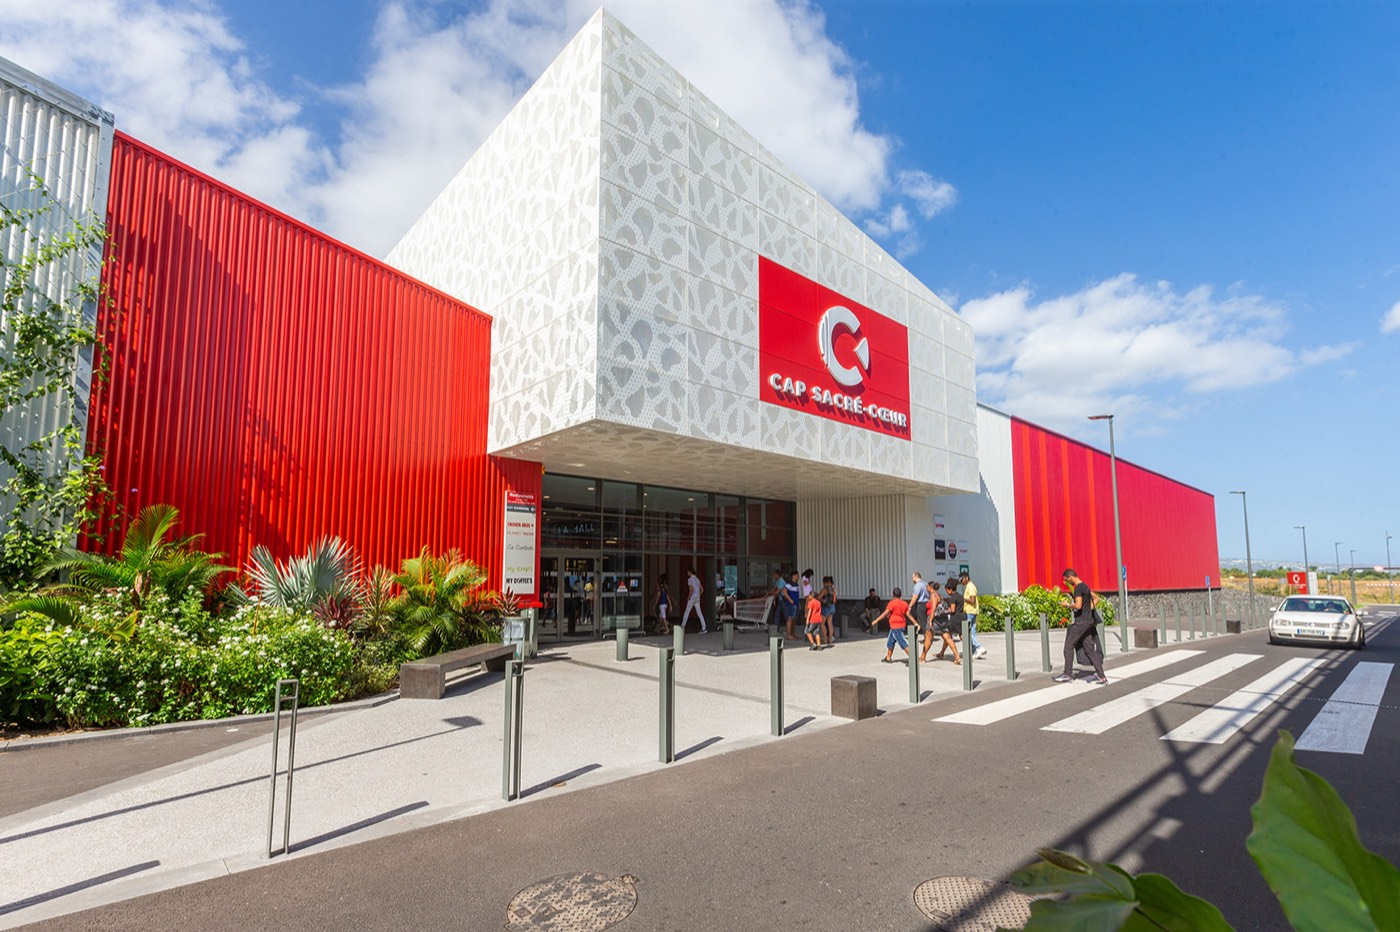
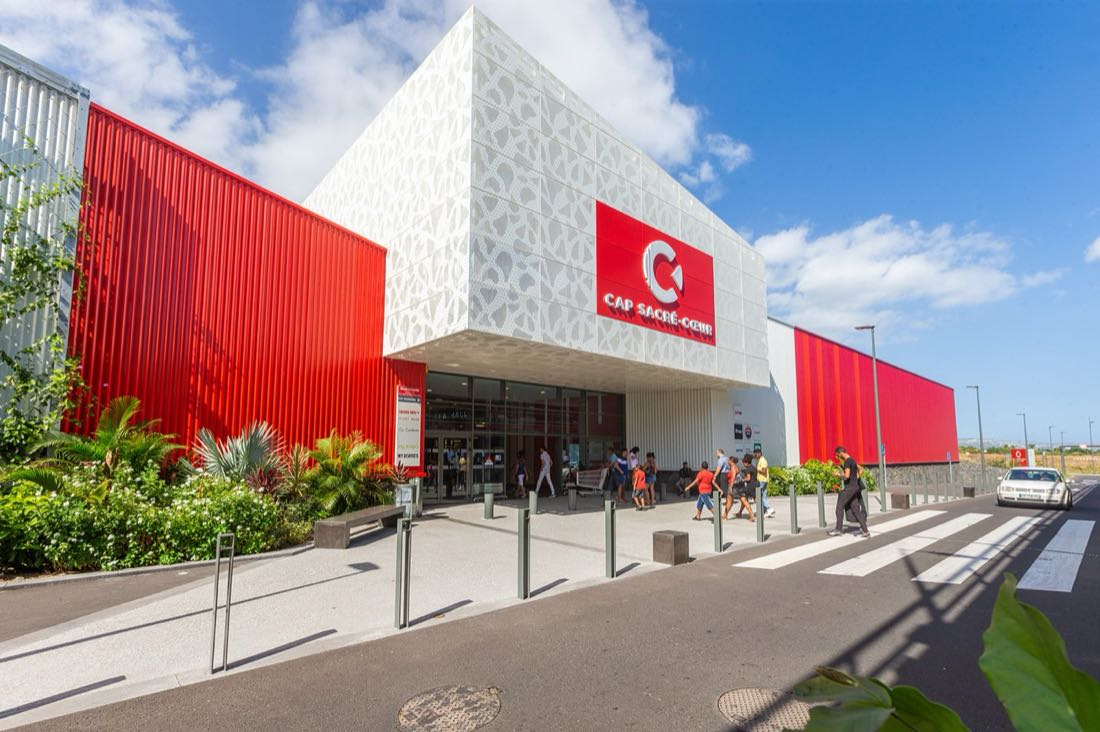
Tour complet du 28 aout : textes du parcours V2, images allegees, quiz verrouille, retour aux bons, validation durcie

diff --git a/app.js b/app.js
@@ -221,6 +221,14 @@ function appliquerOperation() {
     logo.alt = OPERATION.lieu || '';
     logo.hidden = false;
     lieuEntete.hidden = true;
+    // Si l'image du logo ne charge pas (fichier déplacé, 4G qui coupe),
+    // l'en-tête de tous les écrans afficherait une icône cassée : on
+    // retombe sur le nom de la galerie en toutes lettres.
+    logo.onerror = () => {
+      logo.hidden = true;
+      lieuEntete.textContent = (OPERATION.lieu || OPERATION.nom || '').trim();
+      lieuEntete.hidden = !lieuEntete.textContent;
+    };
   } else {
     logo.hidden = true;
     lieuEntete.textContent = (OPERATION.lieu || OPERATION.nom || '').trim();
@@ -239,6 +247,31 @@ function appliquerOperation() {
     const n = QUESTIONS.length;
     compte.textContent = enLettres(n).charAt(0).toUpperCase() + enLettres(n).slice(1) +
       ' questions rapides';
+  }
+
+  // LE BON EN POCHE, RAPPELÉ DÈS L'ACCUEIL (28/08/2026)
+  // Le joueur qui rouvre le jeu devant la caisse (ou qui a rechargé sa
+  // page) a son bon dans le téléphone, mais l'accueil ne lui en disait
+  // rien : il fallait rejouer, tomber sur « Pas si vite ! », et rester
+  // coincé. Une ligne discrète le mène droit à son code.
+  const zoneRappel = document.getElementById('accueil-rappel-bons');
+  if (zoneRappel && window.PullUpBons) {
+    // L'habillage passe deux fois (secours local, puis la base qui
+    // répond) : on repart de zéro pour ne pas empiler deux rappels.
+    zoneRappel.innerHTML = '';
+    const enPoche = window.PullUpBons.combienValables();
+    if (enPoche > 0) {
+      const rappel = document.createElement('button');
+      rappel.type = 'button';
+      rappel.className = 'rappel-bons';
+      rappel.innerHTML =
+        '<span class="rappel-bons-mot">' +
+          (enPoche > 1 ? 'Tu as <strong>' + enPoche + ' bons</strong> à utiliser'
+                       : 'Tu as <strong>un bon</strong> à utiliser') +
+        '</span><span class="rappel-bons-lien">Le voir</span>';
+      rappel.addEventListener('click', function () { afficherMesBons(); });
+      zoneRappel.appendChild(rappel);
+    }
   }
   const lieu = document.getElementById('accueil-lieu');
   lieu.textContent = OPERATION.lieu || '';
@@ -526,8 +559,13 @@ function deduireFoyer() {
 // --------------------------------------------
 const reponses = {};
 let questionActuelle = 0;
+// Vrai entre la tape sur une réponse et l'affichage de la question
+// suivante : empêche une double tape d'avancer de deux questions.
+let avanceQuizEnCours = false;
 let lotGagne = null;
 let codeLot = null;
+// L'horloge « seconde qui défile » des écrans de validation d'un bon.
+let horlogeValidation = null;
 
 // --------------------------------------------
 // NAVIGATION ENTRE ÉCRANS
@@ -542,6 +580,11 @@ function afficherEcran(id, sens) {
   const ecran = document.getElementById(id);
   if (sens === 'arriere') ecran.classList.add('recule');
   ecran.classList.add('actif');
+  // L'horloge de validation (la seconde qui défile sous les yeux du
+  // commerçant) n'a de raison de battre que sur ses deux écrans.
+  if (id !== 'ecran-resultat' && id !== 'ecran-bon-promo') {
+    clearInterval(horlogeValidation);
+  }
   // L'écran d'accueil porte déjà le nom du jeu en très grand : l'en-tête
   // n'y répète pas la ligne dorée, elle reviendra dès l'écran suivant.
   document.body.classList.toggle('sur-accueil', id === 'ecran-accueil');
@@ -574,6 +617,7 @@ function compteRebours() {
 }
 
 function afficherQuestion() {
+  avanceQuizEnCours = false;
   const q = QUESTIONS[questionActuelle];
   document.getElementById('barre-progression').style.width =
     Math.round(((questionActuelle + 1) / QUESTIONS.length) * 100) + '%';
@@ -655,6 +699,12 @@ function afficherQuestion() {
           reponses[q.id] = Array.from(choisies).join(',');
           majBoutonMulti(choisies.size);
         } else {
+          // Deux tapes rapides sur une réponse planifiaient deux
+          // avancées : la deuxième sautait une question entière et la
+          // réponse suivante s'enregistrait sur la mauvaise colonne.
+          // Le verrou tombe tout seul au rendu de la question suivante.
+          if (avanceQuizEnCours) return;
+          avanceQuizEnCours = true;
           reponses[q.id] = opt.v;
           // Certaines réponses remplissent une deuxième colonne :
           // c'est ce qui permet de tenir en cinq questions.
@@ -738,7 +788,7 @@ function adapterCoordonneesMineur() {
   if (texte) {
     texte.textContent = mineur
       ? 'Tes réponses et ton e-mail sont utilisés par Pull Up Événements (Le Tampon) pour gérer le jeu et te remettre ton lot, rien d’autre. Tu ne recevras aucune offre par e-mail : c’est réservé aux joueurs majeurs. Données supprimées au plus tard un an après l’opération, jamais vendues.'
-      : 'Tes réponses et ton e-mail sont utilisés par Pull Up Événements (Le Tampon) pour gérer le jeu et te remettre ton lot. Tu viens de choisir librement si tu voulais aussi recevoir les bons plans des commerçants : ce choix ne change rien à ta participation, et tu peux en changer quand tu veux. Données conservées un an après l’opération, ou trois ans si tu acceptes de recevoir les offres. Jamais vendues.';
+      : 'Tes réponses et ton e-mail sont utilisés par Pull Up Événements (Le Tampon) pour gérer le jeu et te remettre ton lot. Après le jeu, on te demandera si tu veux aussi recevoir les bons plans des commerçants : ce choix ne changera rien à ta partie ni à ton lot, et tu pourras en changer quand tu veux. Données conservées un an après l’opération, ou trois ans si tu acceptes de recevoir les offres. Jamais vendues.';
   }
 }
 
@@ -1273,7 +1323,10 @@ function preparerGrattage() {
 
   const voile = document.getElementById('ticket-voile');
   voile.classList.remove('efface');
-  const ctx = voile.getContext('2d');
+  // willReadFrequently : on relit les pixels pendant le grattage, ce
+  // réglage évite au navigateur des allers-retours avec la carte
+  // graphique qui font ramer les téléphones d'entrée de gamme.
+  const ctx = voile.getContext('2d', { willReadFrequently: true });
   const L = voile.width, H = voile.height;
 
   // Le voile doré à gratter
@@ -1342,6 +1395,11 @@ function installerGrattage(voile, ctx) {
     };
   }
 
+  // Mesurer la part grattée relit tout le canvas : le faire à chaque
+  // mouvement de doigt (souvent 60 par seconde) fait saccader le geste
+  // sur un téléphone modeste. Un coup sur cinq suffit largement, le
+  // seuil de 42 % ne se joue pas au mouvement près.
+  let mouvementsDepuisMesure = 0;
   function creuser(evenement) {
     if (!gratte || devoile) return;
     evenement.preventDefault();
@@ -1352,7 +1410,11 @@ function installerGrattage(voile, ctx) {
     ctx.beginPath();
     ctx.arc(p.x, p.y, 34, 0, Math.PI * 2);
     ctx.fill();
-    if (partGrattee(ctx, voile) > 0.42) revelerTicket();
+    mouvementsDepuisMesure++;
+    if (mouvementsDepuisMesure >= 5) {
+      mouvementsDepuisMesure = 0;
+      if (partGrattee(ctx, voile) > 0.42) revelerTicket();
+    }
   }
 
   function revelerTicket() {
@@ -1382,7 +1444,9 @@ function installerGrattage(voile, ctx) {
 
   voile.onpointerdown = e => { gratte = true; creuser(e); };
   voile.onpointermove = creuser;
-  voile.onpointerup = () => { gratte = false; };
+  // Au lever du doigt, une dernière mesure : la mesure espacée (un coup
+  // sur cinq) ne doit pas laisser un ticket gratté à 42 % sans verdict.
+  voile.onpointerup = () => { gratte = false; if (!devoile && partGrattee(ctx, voile) > 0.42) revelerTicket(); };
   voile.onpointerleave = () => { gratte = false; };
   // Filet de sécurité : au bout de 12 secondes, on révèle tout seul
   setTimeout(() => { if (!devoile) revelerTicket(); }, 12000);
@@ -2499,6 +2563,10 @@ async function lancerLaPartie() {
     afficherEcran('ecran-deja-joue');
     const bloc = document.getElementById('deja-joue-essai');
     if (bloc) bloc.hidden = !PARTIES_ILLIMITEES;
+    // Le gagnant du jour qui recharge sa page atterrit ici : son bon
+    // est toujours dans le téléphone, on lui rouvre le chemin.
+    const versBons = document.getElementById('btn-deja-joue-bons');
+    if (versBons) versBons.hidden = !(window.PullUpBons && window.PullUpBons.combienValables() > 0);
     return;
   }
 
@@ -2708,7 +2776,8 @@ document.getElementById('btn-jouer').addEventListener('click', () => {
 // et le bon est brûlé une fois pour toutes.
 // --------------------------------------------
 const CLE_BONS = 'roue_bons_utilises';
-let horlogeValidation = null;
+// (horlogeValidation est déclarée avec l'état du jeu, en tête de
+// fichier : afficherEcran l'arrête en changeant d'écran.)
 
 function bonsUtilises() {
   try { return JSON.parse(localStorage.getItem(CLE_BONS) || '{}'); }
@@ -2742,6 +2811,21 @@ function demarrerHorloge() {
   battre();
   clearInterval(horlogeValidation);
   horlogeValidation = setInterval(battre, 1000);
+}
+
+// Le serveur a répondu que ce code n'existe pas (voir btn-confirme-oui) :
+// même habillage que le bon périmé, mais le bon local n'est pas brûlé.
+function afficherBonInconnu() {
+  const bloc = document.getElementById('bon-valide');
+  clearInterval(horlogeValidation);
+  document.getElementById('confirme-utilisation').hidden = true;
+  document.getElementById('valide-lot').textContent = '';
+  bloc.classList.add('bon-perime');
+  bloc.hidden = false;
+  document.querySelector('.valide-titre').textContent = 'Bon non reconnu';
+  document.getElementById('valide-horloge').textContent = '';
+  document.querySelector('.valide-mention').textContent =
+    'Ce code n’est pas reconnu par le jeu. Si tu as bien gagné aujourd’hui, rouvre le jeu avec du réseau puis réessaie, ou passe à l’accueil de la galerie.';
 }
 
 // depuis = null : le bon vient d'être utilisé, à l'instant, devant le commerçant.
@@ -2798,24 +2882,41 @@ document.getElementById('btn-confirme-oui').addEventListener('click', async (evt
   // vider les données du site pour retrouver un bon d'apparence neuve et
   // se faire servir deux fois.
   //
-  // Trois réponses possibles :
+  // Quatre réponses possibles :
   //   - le bon vient d'être brûlé      -> écran vert « Bon utilisé »
   //   - le bon avait déjà servi        -> écran ROUGE « Bon déjà utilisé »
-  //   - le serveur ne connaît pas le code (participation encore en attente
-  //     d'envoi, réseau coupé) -> on fait confiance au joueur. Refuser un
-  //     vrai gagnant parce que la 4G est capricieuse coûterait plus cher,
-  //     en image, que la fraude évitée.
+  //   - le serveur ne répond pas (réseau coupé) -> on fait confiance au
+  //     joueur. Refuser un vrai gagnant parce que la 4G est capricieuse
+  //     coûterait plus cher, en image, que la fraude évitée.
+  //   - le serveur RÉPOND et ne connaît pas le code -> en production,
+  //     c'est un code fabriqué (résultat forcé, code inventé) : refus
+  //     poli, sauf si une participation attend encore d'être envoyée
+  //     (le vrai gagnant dont la 4G a coupé pendant la partie). Sur la
+  //     version d'essai, la confiance reste entière : les bons de
+  //     démonstration ne sont jamais en base.
   let dejaUtiliseLe = null;
+  let codeInconnu = false;
   try {
     const { data, error } = await sb.rpc('roue_bon_etat', { p_code: code });
     if (!error && data && data.trouve && data.deja_utilise) {
       dejaUtiliseLe = data.utilise_le || new Date().toISOString();
+    }
+    if (!error && data && !data.trouve && !PARTIES_ILLIMITEES) {
+      let enAttente = [];
+      try { enAttente = JSON.parse(localStorage.getItem(CLE_ATTENTE) || '[]'); } catch (e2) { /* vide */ }
+      if (enAttente.length === 0) codeInconnu = true;
     }
   } catch (e) {
     console.warn('Utilisation non remontée :', e);
   }
 
   bouton.disabled = false;
+  if (codeInconnu) {
+    // Le bon n'est PAS brûlé localement : si c'était un vrai bon mal
+    // synchronisé, le joueur pourra réessayer une fois le réseau revenu.
+    afficherBonInconnu();
+    return;
+  }
   marquerBonUtilise(code, lot);
   afficherBonUtilise(lot, dejaUtiliseLe);
 
@@ -3509,6 +3610,9 @@ async function afficherNouveautes() {
 }
 
 document.getElementById('carte-mesbons').addEventListener('click', function () { afficherMesBons(); });
+// Depuis l'écran « Pas si vite ! » : rouvrir le portefeuille de bons.
+const btnDejaJoueBons = document.getElementById('btn-deja-joue-bons');
+if (btnDejaJoueBons) btnDejaJoueBons.addEventListener('click', function () { afficherMesBons(); });
 document.getElementById('btn-mes-bons-retour').addEventListener('click', function () { afficherDecouverte(); });
 document.getElementById('carte-promos').addEventListener('click', function () { afficherPromos(); });
 // V2 : la carte des nouveautés n'existe plus dans la page ; on ne

diff --git a/index.html b/index.html
@@ -22,29 +22,31 @@
        la feuille de style, au lieu d'attendre qu'elle soit lue. -->
   <link rel="preload" href="fonts/playfairdisplay-600.woff2" as="font" type="font/woff2" crossorigin>
   <link rel="preload" href="fonts/jost-400.woff2" as="font" type="font/woff2" crossorigin>
-  <!-- Les deux images du premier écran, demandées tout de suite au lieu
-       d'attendre que la feuille de style soit lue et appliquée. -->
-  <link rel="preload" href="img/fond-bokeh-or.jpg" as="image">
+  <!-- Le fond doré n'est plus préchargé (28/08/2026) : le thème Cap
+       Sacré-Cœur, celui de tous les QR actuels, ne l'affiche pas et
+       ces 65 Ko partaient pour rien à chaque ouverture. Les thèmes
+       sombres le chargent par la feuille de style dès qu'ils en ont
+       besoin. -->
   <!-- Le numéro derrière le nom du fichier force le téléphone à recharger
        la feuille de style au lieu de ressortir celle qu'il avait gardée en
        mémoire. À changer à chaque mise en ligne d'une modification visuelle,
        sinon un joueur déjà venu continue de voir l'ancienne version. -->
-  <link rel="stylesheet" href="style.css?v=28aout2026q">
+  <link rel="stylesheet" href="style.css?v=28aout2026r">
   <!-- Les scripts sont déclarés ici avec « defer » : le téléchargement
        commence tout de suite, en même temps que la lecture de la page,
        et l'exécution attend que la page soit construite. En fin de page,
        ils n'étaient demandés qu'après avoir lu tout le HTML. L'ordre
        est garanti par defer. -->
   <script src="supabase-lib.js" defer></script>
-  <script src="icones.js?v=28aout2026q" defer></script>
-  <script src="icones-quiz.js?v=28aout2026q" defer></script>
-  <script src="contenus-demo.js?v=28aout2026q" defer></script>
+  <script src="icones.js?v=28aout2026r" defer></script>
+  <script src="icones-quiz.js?v=28aout2026r" defer></script>
+  <script src="contenus-demo.js?v=28aout2026r" defer></script>
   <!-- LE PORTEFEUILLE DE BONS (26/08/2026)
        Il tient la liste des bons du joueur et sait la dessiner. Chargé
        avant app.js, qui l'appelle à deux endroits : quand un lot est
        gagné, et quand un bon de promotion est pris. Voir bons.js. -->
-  <script src="bons.js?v=28aout2026q" defer></script>
-  <script src="app.js?v=28aout2026q" defer></script>
+  <script src="bons.js?v=28aout2026r" defer></script>
+  <script src="app.js?v=28aout2026r" defer></script>
   <!-- L'envoi du bon par e-mail n'est pas encore en service : le dossier
        envoi-mails ne part pas en ligne (voir .gitignore), et l'appeler
        ici ne produisait qu'une erreur 404 à chaque ouverture de la page.
@@ -93,12 +95,19 @@
     <!-- Écran 1 : accueil -->
     <section id="ecran-accueil" class="ecran actif">
       <div class="hero">
-        <div class="hero-emoji hero-photo" id="accueil-medaillon"></div>
+        <!-- La classe hero-photo (et ses 340 Ko de photographie en fond) est
+             posée par app.js uniquement pour les thèmes qui affichent le
+             médaillon : la déclarer ici la ferait télécharger par tous. -->
+        <div class="hero-emoji" id="accueil-medaillon"></div>
         <h1>La Hotte des<br><span class="or">Commerçants</span></h1>
         <p id="accueil-lieu" class="lieu-badge" hidden></p>
         <p class="sous-titre">Un mini test de personnalité, tu fais tourner la roue, et tu repars peut-être avec un cadeau&nbsp;!</p>
         <p class="accueil-compte" id="accueil-compte"></p>
         <button class="btn btn-or btn-grand" id="btn-jouer">C'est parti&nbsp;!</button>
+        <!-- Rempli par app.js quand le téléphone garde un bon encore
+             valable : le joueur qui revient (ou qui a rechargé la page)
+             retrouve son code sans avoir à rejouer. -->
+        <div id="accueil-rappel-bons"></div>
         <div class="mentions">
           <p class="mini-mention">Jeu gratuit, sans obligation d'achat · 1 partie par jour · <a href="reglement.html" target="_blank" rel="noopener noreferrer" class="lien-or">Règlement</a> · Moins de 18 ans&nbsp;: joue avec l'accord d'un parent.</p>
         </div>
@@ -170,7 +179,7 @@
         <!-- Ce bouton ouvre le ticket à gratter, et le jeu du jour n'est
              pas toujours la roue : « Je tente ma chance » reste vrai. -->
         <button class="btn btn-or btn-grand" id="btn-valider">Je tente ma chance</button>
-        <p class="mini-mention" id="mention-donnees"><span id="mention-donnees-texte">Tes réponses et ton e-mail sont utilisés par Pull Up Événements (Le Tampon) pour gérer le jeu et te remettre ton lot. Tu viens de choisir librement si tu voulais aussi recevoir les bons plans des commerçants&nbsp;: ce choix ne change rien à ta participation. Données conservées trois ans au maximum, jamais vendues.</span> Tu peux accéder à tes données, les corriger ou les supprimer à tout moment&nbsp;: romain@pullup.re · <a href="reglement.html#donnees" target="_blank" rel="noopener noreferrer" class="lien-or">En savoir plus sur tes données</a></p>
+        <p class="mini-mention" id="mention-donnees"><span id="mention-donnees-texte">Tes réponses et ton e-mail sont utilisés par Pull Up Événements (Le Tampon) pour gérer le jeu et te remettre ton lot. Après le jeu, on te demandera si tu veux aussi recevoir les bons plans des commerçants&nbsp;: ce choix ne changera rien à ta partie ni à ton lot, et tu pourras en changer quand tu veux. Données conservées un an après l&rsquo;opération, ou trois ans si tu acceptes de recevoir les offres. Jamais vendues.</span> Tu peux accéder à tes données, les corriger ou les supprimer à tout moment&nbsp;: romain@pullup.re · <a href="reglement.html#donnees" target="_blank" rel="noopener noreferrer" class="lien-or">En savoir plus sur tes données</a></p>
       </div>
     </section>
 
@@ -448,7 +457,7 @@
     <section id="ecran-offres" class="ecran">
       <div class="hero hero-offres">
         <div class="hero-emoji" id="offres-medaillon"></div>
-        <span class="offres-kicker">Avant de jouer</span>
+        <span class="offres-kicker">Avant de partir</span>
         <h1 id="offres-titre">Les bons plans de la galerie, chaque jeudi.</h1>
         <p class="sous-titre" id="offres-soustitre">Les bons de réduction, la remise chez ta boutique préférée, les nouvelles collections, le menu du midi.</p>
 
@@ -553,6 +562,10 @@
           <p class="sous-titre">Mais comme tu es sur la <strong>version d'essai</strong>, tu peux rejouer autant de fois que tu veux. Dans la vraie opération, c'est une partie par personne et par jour.</p>
           <button class="btn btn-or btn-grand" id="btn-rejouer-essai">Rejouer quand même</button>
         </div>
+        <!-- Le gagnant qui recharge sa page atterrit ici : sans ce
+             bouton, son bon dort dans le téléphone sans aucun chemin
+             pour le rouvrir. Affiché par app.js s'il reste un bon. -->
+        <button class="btn btn-discret btn-grand" id="btn-deja-joue-bons" hidden>Revoir mes bons</button>
       </div>
     </section>
 

diff --git a/style.css b/style.css
@@ -609,7 +609,8 @@ h1 {
 }
 .btn-retour {
   flex-shrink: 0;
-  width: 40px; height: 40px;
+  /* 44 px : la taille minimale d'une cible tactile confortable */
+  width: 44px; height: 44px;
   margin-left: -8px;
   display: flex;
   align-items: center;
@@ -2840,12 +2841,17 @@ body.theme-circus .guirlande i {
   box-shadow: 0 0 8px 1px rgba(239, 195, 104, .5);
   animation: ampoule 3.6s ease-in-out infinite;
 }
+/* L'opacité seule suffit au scintillement : elle atténue aussi la
+   lueur (box-shadow) de l'ampoule, et le navigateur peut la composer
+   sur la carte graphique au lieu de repeindre l'écran 60 fois par
+   seconde. Ne pas remettre box-shadow dans ces keyframes. */
 @keyframes ampoule {
-  0%, 100% { opacity: .45; box-shadow: 0 0 6px 0 rgba(239, 195, 104, .35); }
-  50%      { opacity: 1;   box-shadow: 0 0 11px 2px rgba(255, 233, 184, .75); }
+  0%, 100% { opacity: .45; }
+  50%      { opacity: 1; }
 }
 @media (prefers-reduced-motion: reduce) {
-  body.theme-circus .guirlande i { animation: none; opacity: .8; }
+  body.theme-circus .guirlande i,
+  body.theme-csc .guirlande i { animation: none; opacity: .8; }
 }
 
 /* La pastille du pied et les filets prennent le rouge de la piste. */
@@ -3361,7 +3367,9 @@ body.theme-csc {
   --or-clair: #FF4F4F;
   --or-blanc: #17222C;                    /* les grands titres : encre profonde */
   --creme: #3A4652;                       /* le texte courant */
-  --gris: #6A7682;
+  /* #5E6A76 et pas plus clair : les mentions en 12,5 px doivent tenir
+     le contraste AA (4,5:1) sur le fond blanc cassé. */
+  --gris: #5E6A76;
   --rouge: #E4373F;
   --rouge-clair: #FF4F4F;
   --filet: rgba(228, 55, 63, .18);
